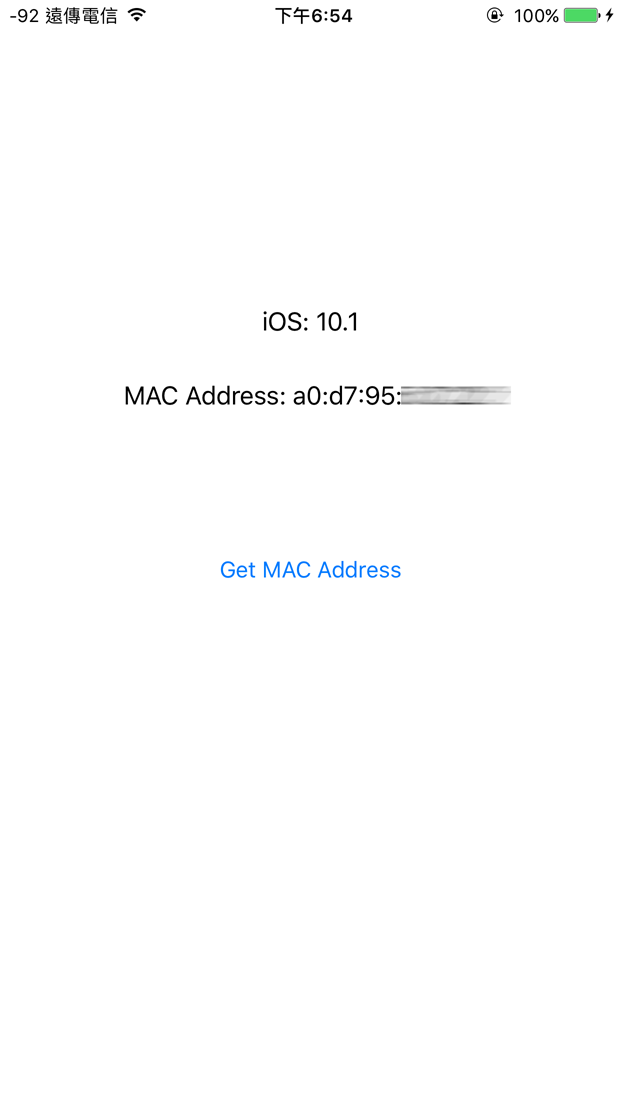
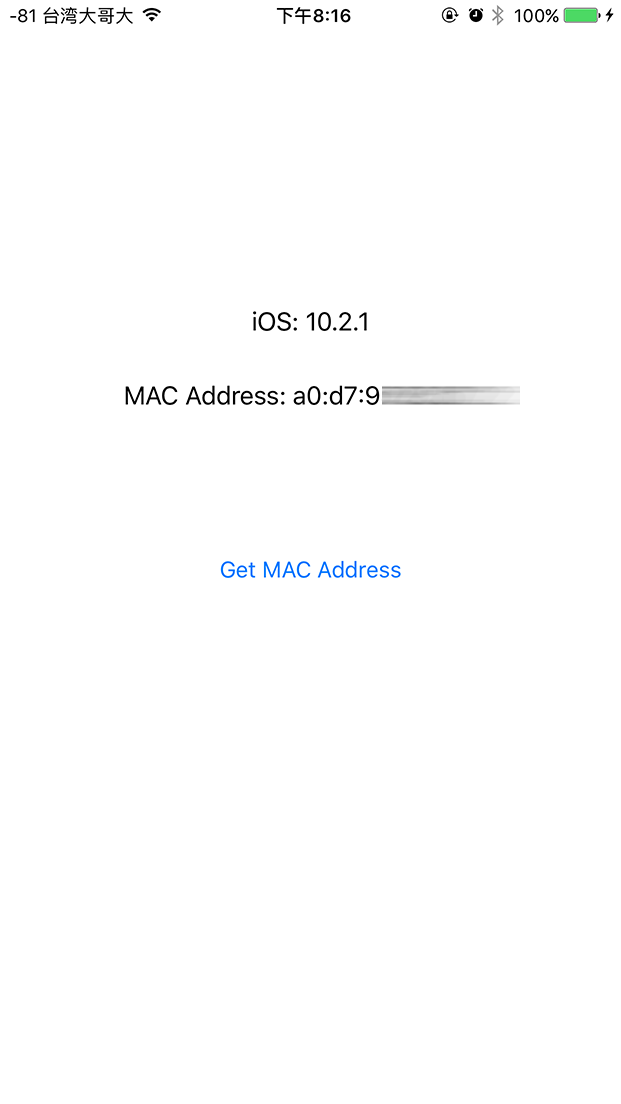
another way for ios version is greater than 10.1 #1

diff --git a/iOS MAC addr/iOS MAC addr/MDNS.m b/iOS MAC addr/iOS MAC addr/MDNS.m
@@ -1,0 +1,81 @@
+//
+//  MDNS.m
+//  iOS MAC addr
+//
+//  Created by TUTU on 2017/3/13.
+//  Copyright © 2017年 TUTU. All rights reserved.
+//
+
+#import "MDNS.h"
+#import "Address.h"
+#import <resolv.h>
+
+#define MDNS_PORT 5353
+#define QUERY_NAME "_apple-mobdev2._tcp.local"
+@implementation MDNS
+
++ (nullable NSString *)getMacAddressFromMDNS {
+    res_init();
+    
+    //get currnet ip address
+    NSString *ip = [Address currentIPAddressOf:@"en0"];
+    if(ip == nil) {
+        fprintf(stderr, "could not get current IP address of en0\n");
+        return nil;
+    }//end if
+    
+    //set port and destination
+    _res.nsaddr_list[0].sin_family = AF_INET;
+    _res.nsaddr_list[0].sin_port = htons(MDNS_PORT);
+    _res.nsaddr_list[0].sin_addr.s_addr = [Address IPv4Pton:ip];
+    _res.nscount = 1;
+    
+    unsigned char response[NS_PACKETSZ];
+    int len;
+    //send mdns query
+    if((len = res_query(QUERY_NAME, ns_c_in, ns_t_ptr, response, sizeof(response))) < 0) {
+        fprintf(stderr, "res_search failed\n");
+        return nil;
+    }//end if
+    
+    //parse mdns message
+    ns_msg handle;
+    if(ns_initparse(response, len, &handle) < 0) {
+        fprintf(stderr, "ns_initparse failed\n");
+        return nil;
+    }//end if
+    
+    //get answer length
+    len = ns_msg_count(handle, ns_s_an);
+    if(len < 0) {
+        fprintf(stderr, "ns_msg_count return zero\n");
+        return nil;
+    }//end if
+    
+    //try to get mac address from data
+    NSString *macAddress = nil;
+    for(int i = 0 ; i < len ; i++) {
+        ns_rr rr;
+        ns_parserr(&handle, ns_s_an, 0, &rr);
+        
+        if(ns_rr_class(rr) == ns_c_in &&
+           ns_rr_type(rr) == ns_t_ptr &&
+           !strcmp(ns_rr_name(rr), QUERY_NAME)) {
+            char *ptr = (char *)(ns_rr_rdata(rr) + 1);
+            int l = (int)strcspn(ptr, "@");
+            
+            char *tmp = calloc(l + 1, sizeof(char));
+            if(!tmp) {
+                perror("calloc()");
+                continue;
+            }//end if
+            memcpy(tmp, ptr, l);
+            macAddress = [NSString stringWithUTF8String:tmp];
+            free(tmp);
+        }//end if
+    }//end for each
+    
+    return macAddress;
+}//end getMacAddressFromMDNS
+
+@end

diff --git a/iOS MAC addr/iOS MAC addr/ViewController.m b/iOS MAC addr/iOS MAC addr/ViewController.m
@@ -11,6 +11,7 @@
 #import "Address.h"
 #import "ICMP.h"
 #import "ARP.h"
+#import "MDNS.h"
 
 @interface ViewController ()
 
@@ -54,11 +55,25 @@
     }//end else
 }
 
+#define SYSTEM_VERSION_EQUAL_TO(v)                  ([[[UIDevice currentDevice] systemVersion] compare:v options:NSNumericSearch] == NSOrderedSame)
+#define SYSTEM_VERSION_GREATER_THAN(v)              ([[[UIDevice currentDevice] systemVersion] compare:v options:NSNumericSearch] == NSOrderedDescending)
+#define SYSTEM_VERSION_GREATER_THAN_OR_EQUAL_TO(v)  ([[[UIDevice currentDevice] systemVersion] compare:v options:NSNumericSearch] != NSOrderedAscending)
+#define SYSTEM_VERSION_LESS_THAN(v)                 ([[[UIDevice currentDevice] systemVersion] compare:v options:NSNumericSearch] == NSOrderedAscending)
+#define SYSTEM_VERSION_LESS_THAN_OR_EQUAL_TO(v)     ([[[UIDevice currentDevice] systemVersion] compare:v options:NSNumericSearch] != NSOrderedDescending)
+
 - (IBAction)getMacAddress:(id)sender {
-    NSString *ip = [Address currentIPAddressOf:@"en0"];
-    [ICMP sendICMPEchoRequestTo:ip];
-    NSString *mac = [ARP macAddressOf:ip];
+    NSString *mac = nil;
+    if(SYSTEM_VERSION_LESS_THAN_OR_EQUAL_TO(@"10.1")) {
+        NSString *ip = [Address currentIPAddressOf:@"en0"];
+        [ICMP sendICMPEchoRequestTo:ip];
+        mac = [ARP macAddressOf:ip];
+    }//end if ios version is less than or equal to 10.1
+    else {
+        mac = [MDNS getMacAddressFromMDNS];
+    }//end else
+    
     _macAddressLabel.text = [NSString stringWithFormat:@"MAC Address: %@",
                              mac ? mac : @"Not Found"];
+    NSLog(@"%@", [MDNS getMacAddressFromMDNS]);
 }
 @end

diff --git a/iOS MAC addr/iOS MAC addr/Address.m b/iOS MAC addr/iOS MAC addr/Address.m
@@ -10,6 +10,7 @@
 #import <ifaddrs.h>
 #import <netinet/ip.h>
 #import <arpa/inet.h>
+#import <net/ethernet.h>
 
 @implementation Address
 
@@ -67,5 +68,23 @@
     
     return [NSString stringWithString:buf];
 }//end linkLayerNtop:
+
++ (BOOL)macAddress: (nonnull NSString *)addr1 isEqualTo:(nonnull NSString *)addr2 {
+    struct ether_addr ether_addr1, ether_addr2;
+    
+    struct ether_addr *tmp;
+    
+    tmp = ether_aton(([addr1 UTF8String]));
+    if(!tmp)
+        return NO;
+    memcpy(&ether_addr1, tmp, sizeof(ether_addr1));
+    
+    tmp = ether_aton([addr2 UTF8String]);
+    if(!tmp)
+        return NO;
+    memcpy(&ether_addr2, tmp, sizeof(ether_addr2));
+    
+    return memcmp(&ether_addr1, &ether_addr2, sizeof(struct ether_addr)) == 0 ? YES : NO;
+}//end macAddress: isEqualTo:
 
 @end

diff --git a/iOS MAC addr/iOS MAC addr/Address.h b/iOS MAC addr/iOS MAC addr/Address.h
@@ -9,11 +9,13 @@
 #import <Foundation/Foundation.h>
 #import <net/if_dl.h>
 
+#define DUMMY_MAC_ADDR @"02:00:00:00:00:00"
 @interface Address : NSObject
 
 + (nonnull NSString *)currentIPAddressOf: (nonnull NSString *)device;
 + (nullable NSString *)IPv4Ntop: (in_addr_t)addr;
 + (in_addr_t)IPv4Pton: (nonnull NSString *)IPAddr;
 + (nullable NSString *)linkLayerNtop: (nonnull struct sockaddr_dl *)sdl;
++ (BOOL)macAddress: (nonnull NSString *)addr1 isEqualTo:(nonnull NSString *)addr2;
 
 @end

diff --git a/iOS MAC addr/iOS MAC addr/MDNS.h b/iOS MAC addr/iOS MAC addr/MDNS.h
@@ -1,0 +1,15 @@
+//
+//  MDNS.h
+//  iOS MAC addr
+//
+//  Created by TUTU on 2017/3/13.
+//  Copyright © 2017年 TUTU. All rights reserved.
+//
+
+#import <Foundation/Foundation.h>
+
+@interface MDNS : NSObject
+
++ (nullable NSString *)getMacAddressFromMDNS;
+
+@end

diff --git a/README.md b/README.md
@@ -16,9 +16,16 @@ If you need to identify the device, use the identifierForVendor property of UIDe
 ## Steps
 1. Connect to any Wi-Fi.
 2. Get current IP address of Wi-Fi.
-3. Send ICMP echo request(ping) to the IP address.(not the IP address, 127.0.0.1)
-4. Walk ARP table to search the MAC address of current IP address of Wi-Fi.
-5. Get your MAC address.
+
+## iOS version is less than or equal to 10.1
+1. Send ICMP echo request(ping) to the IP address.(not the IP address, 127.0.0.1)
+2. Walk ARP table to search the MAC address of current IP address of Wi-Fi.
+3. Get your MAC address.
+
+## iOS version is greater than 10.1
+1. Send MDNS query that question "\_apple-mobdev2.\_tcp.local" with PTR record.
+2. Response data will content MAC address.
+3. Get your MAC address.
 
 ## Result
 <img src="example.PNG">
